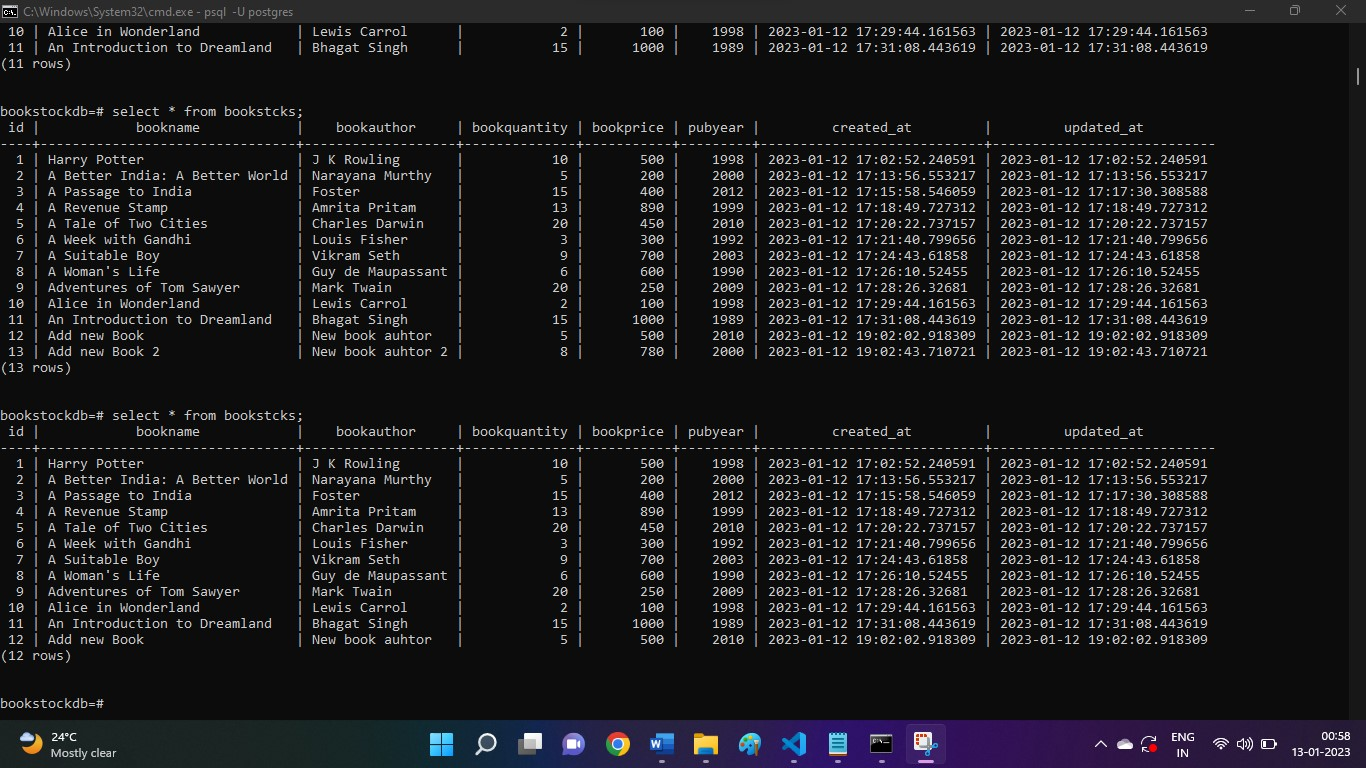
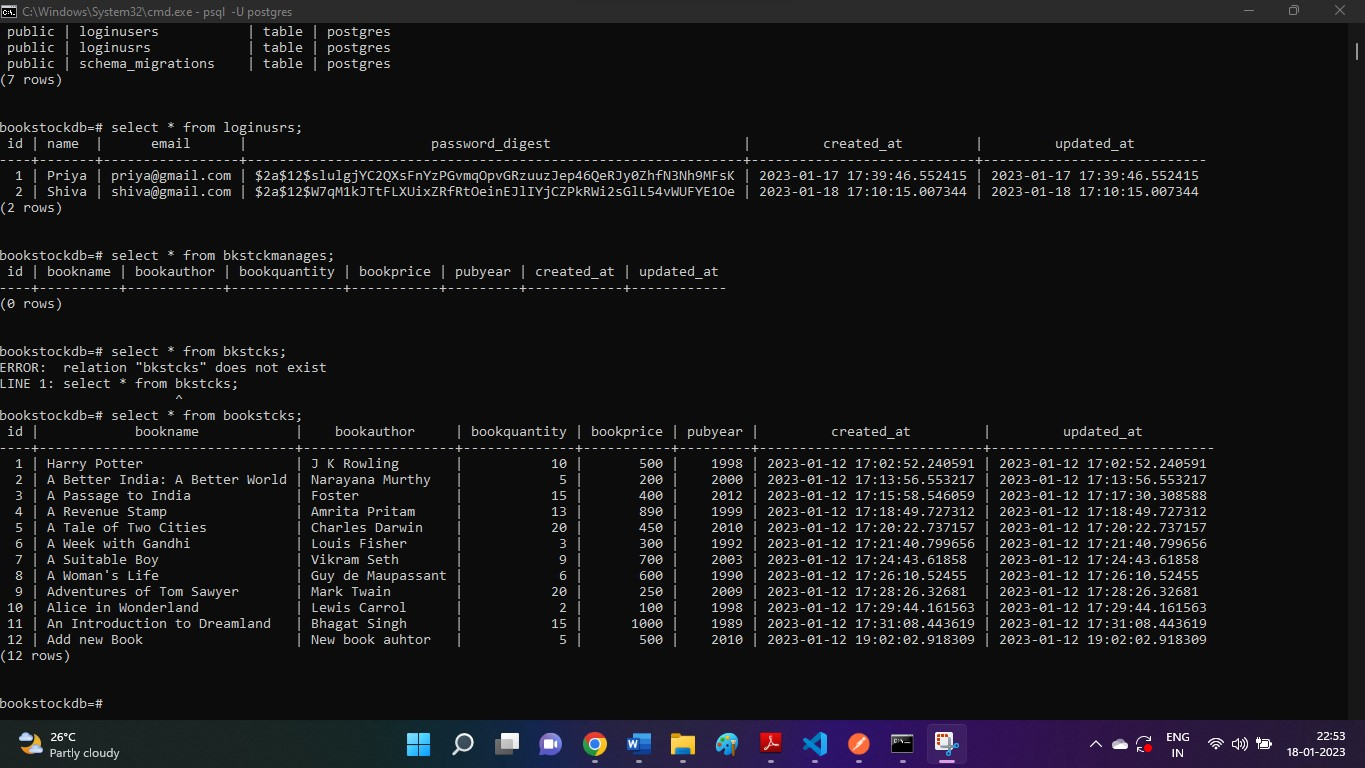
Updating user details and API Docs

diff --git a/app/controllers/bkstckmanage_controller.rb b/app/controllers/bkstckmanage_controller.rb
@@ -1,41 +1,82 @@
 class BkstckmanageController < ApplicationController
     skip_before_action :verify_authenticity_token
     def index 
-        auth_user = Bookstck.find_by_id(session[:current_login])
+        auth_user = Loginusr.find_by_id(session[:current_user_id])
         if !auth_user.nil? 
             render json: Bookstck.all 
         else
-           render html: "You are not an authorised user to view books!" 
+           render html: "You are an unauthorised user! Please login to continue" 
         end 
     end
 
 def show
-    a = Bookstck.find(params[:id])
-    render json: a
+    current_user = Loginusr.find_by_id(session[:current_user_id])
+    if !current_user.nil?
+    bol = Bookstck.exists?(params[:id])
+    if bol
+    y = Bookstck.find(params[:id])
+    render json: y
+    else
+    render json: "Book not found"
+    end
+    else
+    render json: "Please login to continue."
+    end
    
 end
 
  def create
-    v=!params[:bookname].empty?
-    if(v)
-     Bookstck.create('bookname': params[:bookname], 'bookauthor': params[:bookauthor], 'bookquantity': params[:bookquantity],'bookprice': params[:bookprice], 'pubyear': params[:pubyear])
-     puts p
-     render json: "Book created successfully"
+    current_user = Loginusr.find_by_id(session[:current_user_id])
+    if !current_user.nil?
+        v = !params[:bookname] and !params[:bookauthor] and !params[:bookquantity] and !params[:bookprice] and !params[:pubyear]
+        puts params[:bookname]
+        if !v
+        b = Bookstck.create('bookname': params[:bookname],'bookauthor': params[:bookauthor],'bookquantity': params[:bookquantity], 'bookprice': params[:bookprice], 'pubyear': params[:pubyear])
+        render json: "Book created successfully"
+        else 
+        render json: "Book not created. Try again"
+        end
     else
-     render json: "Book not added"
+        render json: "Please login to continue."
+    end   
       end
  
       def update
-        b = Bookstck.find(params[:id].to_i)
+        current_user = Loginusr.find_by_id(session[:current_user_id])
+       if !current_user.nil?
+          b = Bookstck.all
+    a = Bookstck.exists?(params[:id])
+    if a
+        b = Bookstck.find_by_id(params[:id])
         b.update('bookname': params[:bookname], 'bookauthor': params[:bookauthor], 'bookquantity': params[:bookquantity],'bookprice': params[:bookprice], 'pubyear': params[:pubyear])
-        render json: "Book data Updated"
+        render json: "Book data Updated."
+    else
+        render json: "Book not found."
     end
+else
+    render json: "Please login to continue."
+end
+        
+end
 
     def destroy
-        a = Bookstck.find(params[:id].to_i)
-        a.destroy
-        render json: "Book deleted successfully"
+        current_user = User.find_by_id(session[:current_user_id])
+    if !current_user.nil?
+        a = Bookstck.exists?(params[:id])
+
+        if a
+             b = Bookstck.find_by_id(params[:id])
+             b.destroy
+            render json: "Book deleted successfully."
+        else
+            render json: "Book not found."
+        end
+
+    else
+        render json: "Please login to continue."
+    end
+
     end
 
  end
-end
+

diff --git a/app/controllers/bloginuser_controller.rb b/app/controllers/bloginuser_controller.rb
@@ -1,0 +1,30 @@
+require 'bcrypt'
+class BloginuserController < ApplicationController
+
+    skip_before_action :verify_authenticity_token
+def index
+    current_user = Loginusr.find_by_id(session[:current_user_id])
+    render json: current_user
+end
+
+  def create
+    a = Loginusr.find_by('email': params[:email])
+    if a.nil?
+        render json:"Account not exists."
+    else 
+        if a.authenticate(params[:password])
+            session[:current_user_id] = a.id
+            render json: "Logged in successfully."
+        else
+            render json: "Unable to login."
+        end
+  end
+end
+
+def destroy
+    session.delete(:current_user_id)
+    render json: "Logged out successfully."
+end
+
+
+end

diff --git a/app/controllers/sbyauthor_controller.rb b/app/controllers/sbyauthor_controller.rb
@@ -2,11 +2,16 @@ class SbyauthorController < ApplicationController
     skip_before_action :verify_authenticity_token
 
     def index
+        current_user = Loginusr.find_by_id(session[:current_user_id])
+        if !current_user.nil?
         bauthor = Bookstck.where('bookauthor': params[:bookauthor])
         if (bauthor.nil?)
             render json: "Book by this author is not available"
         else 
             render json: bauthor
+        end
+        else
+        render json: "Please login to continue."
         end
     end
 end

diff --git a/app/controllers/sbyname_controller.rb b/app/controllers/sbyname_controller.rb
@@ -2,11 +2,16 @@ class SbynameController < ApplicationController
     skip_before_action :verify_authenticity_token
 
     def index
+        current_user = Loginusr.find_by_id(session[:current_user_id])
+        if !current_user.nil?
         bname = Bookstck.where('bookname': params[:bookname])
         if (bname.nil?)
             render json: "This book is not available"
         else 
             render json: bname
+        end
+        else
+        render json: "Please login to continue."
         end
     end
 end

diff --git a/config/routes.rb b/config/routes.rb
@@ -9,4 +9,7 @@ Rails.application.routes.draw do
   resources :bkstckmanage
   resources :sbyname
   resources :sbyauthor
+  get  'login', to:'bloginuser#index'
+  post '/login', to:'bloginuser#create'
+  get  'logout', to:'bloginlogin#destroy'
 end

diff --git a/test/controllers/create_bloginuser_controller_test.rb b/test/controllers/create_bloginuser_controller_test.rb
@@ -1,0 +1,7 @@
+require "test_helper"
+
+class CreateBloginuserControllerTest < ActionDispatch::IntegrationTest
+  # test "the truth" do
+  #   assert true
+  # end
+end

diff --git a/test/controllers/bloginuser_controller_test.rb b/test/controllers/bloginuser_controller_test.rb
@@ -1,0 +1,7 @@
+require "test_helper"
+
+class BloginuserControllerTest < ActionDispatch::IntegrationTest
+  # test "the truth" do
+  #   assert true
+  # end
+end

diff --git a/app/helpers/create_bloginuser_helper.rb b/app/helpers/create_bloginuser_helper.rb
@@ -1,0 +1,2 @@
+module CreateBloginuserHelper
+end

diff --git a/app/helpers/bloginuser_helper.rb b/app/helpers/bloginuser_helper.rb
@@ -1,0 +1,2 @@
+module BloginuserHelper
+end
